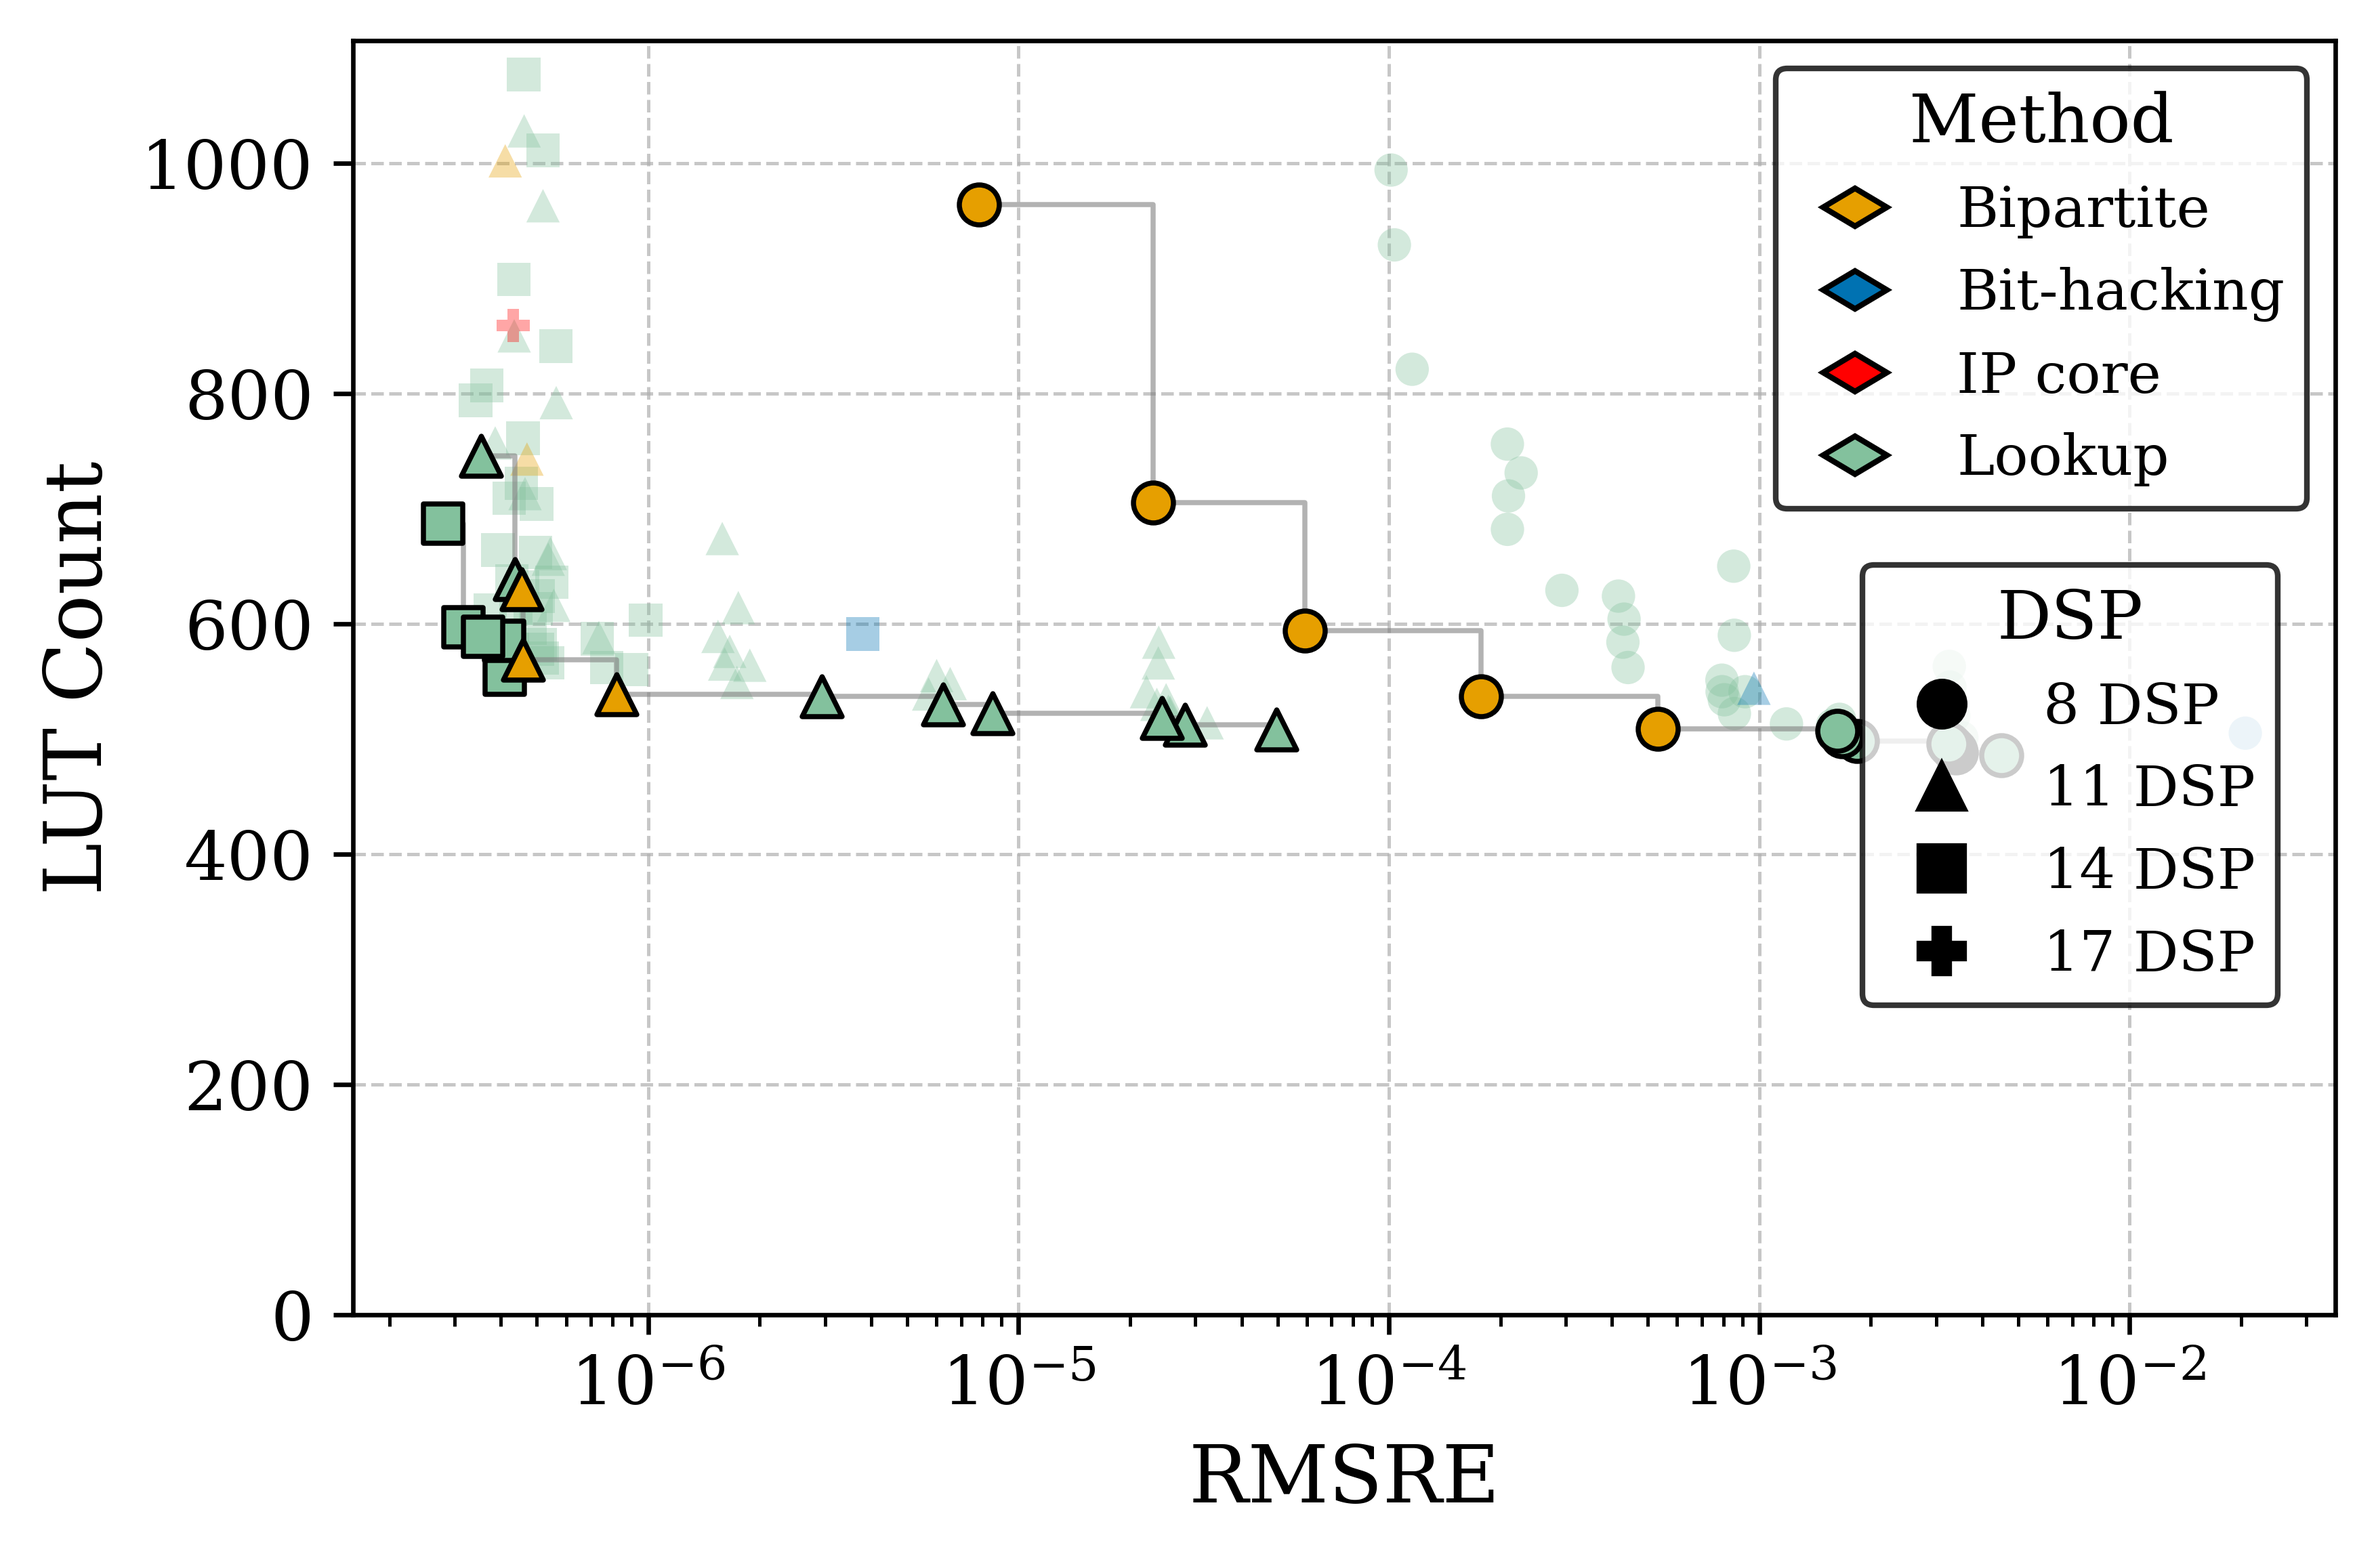
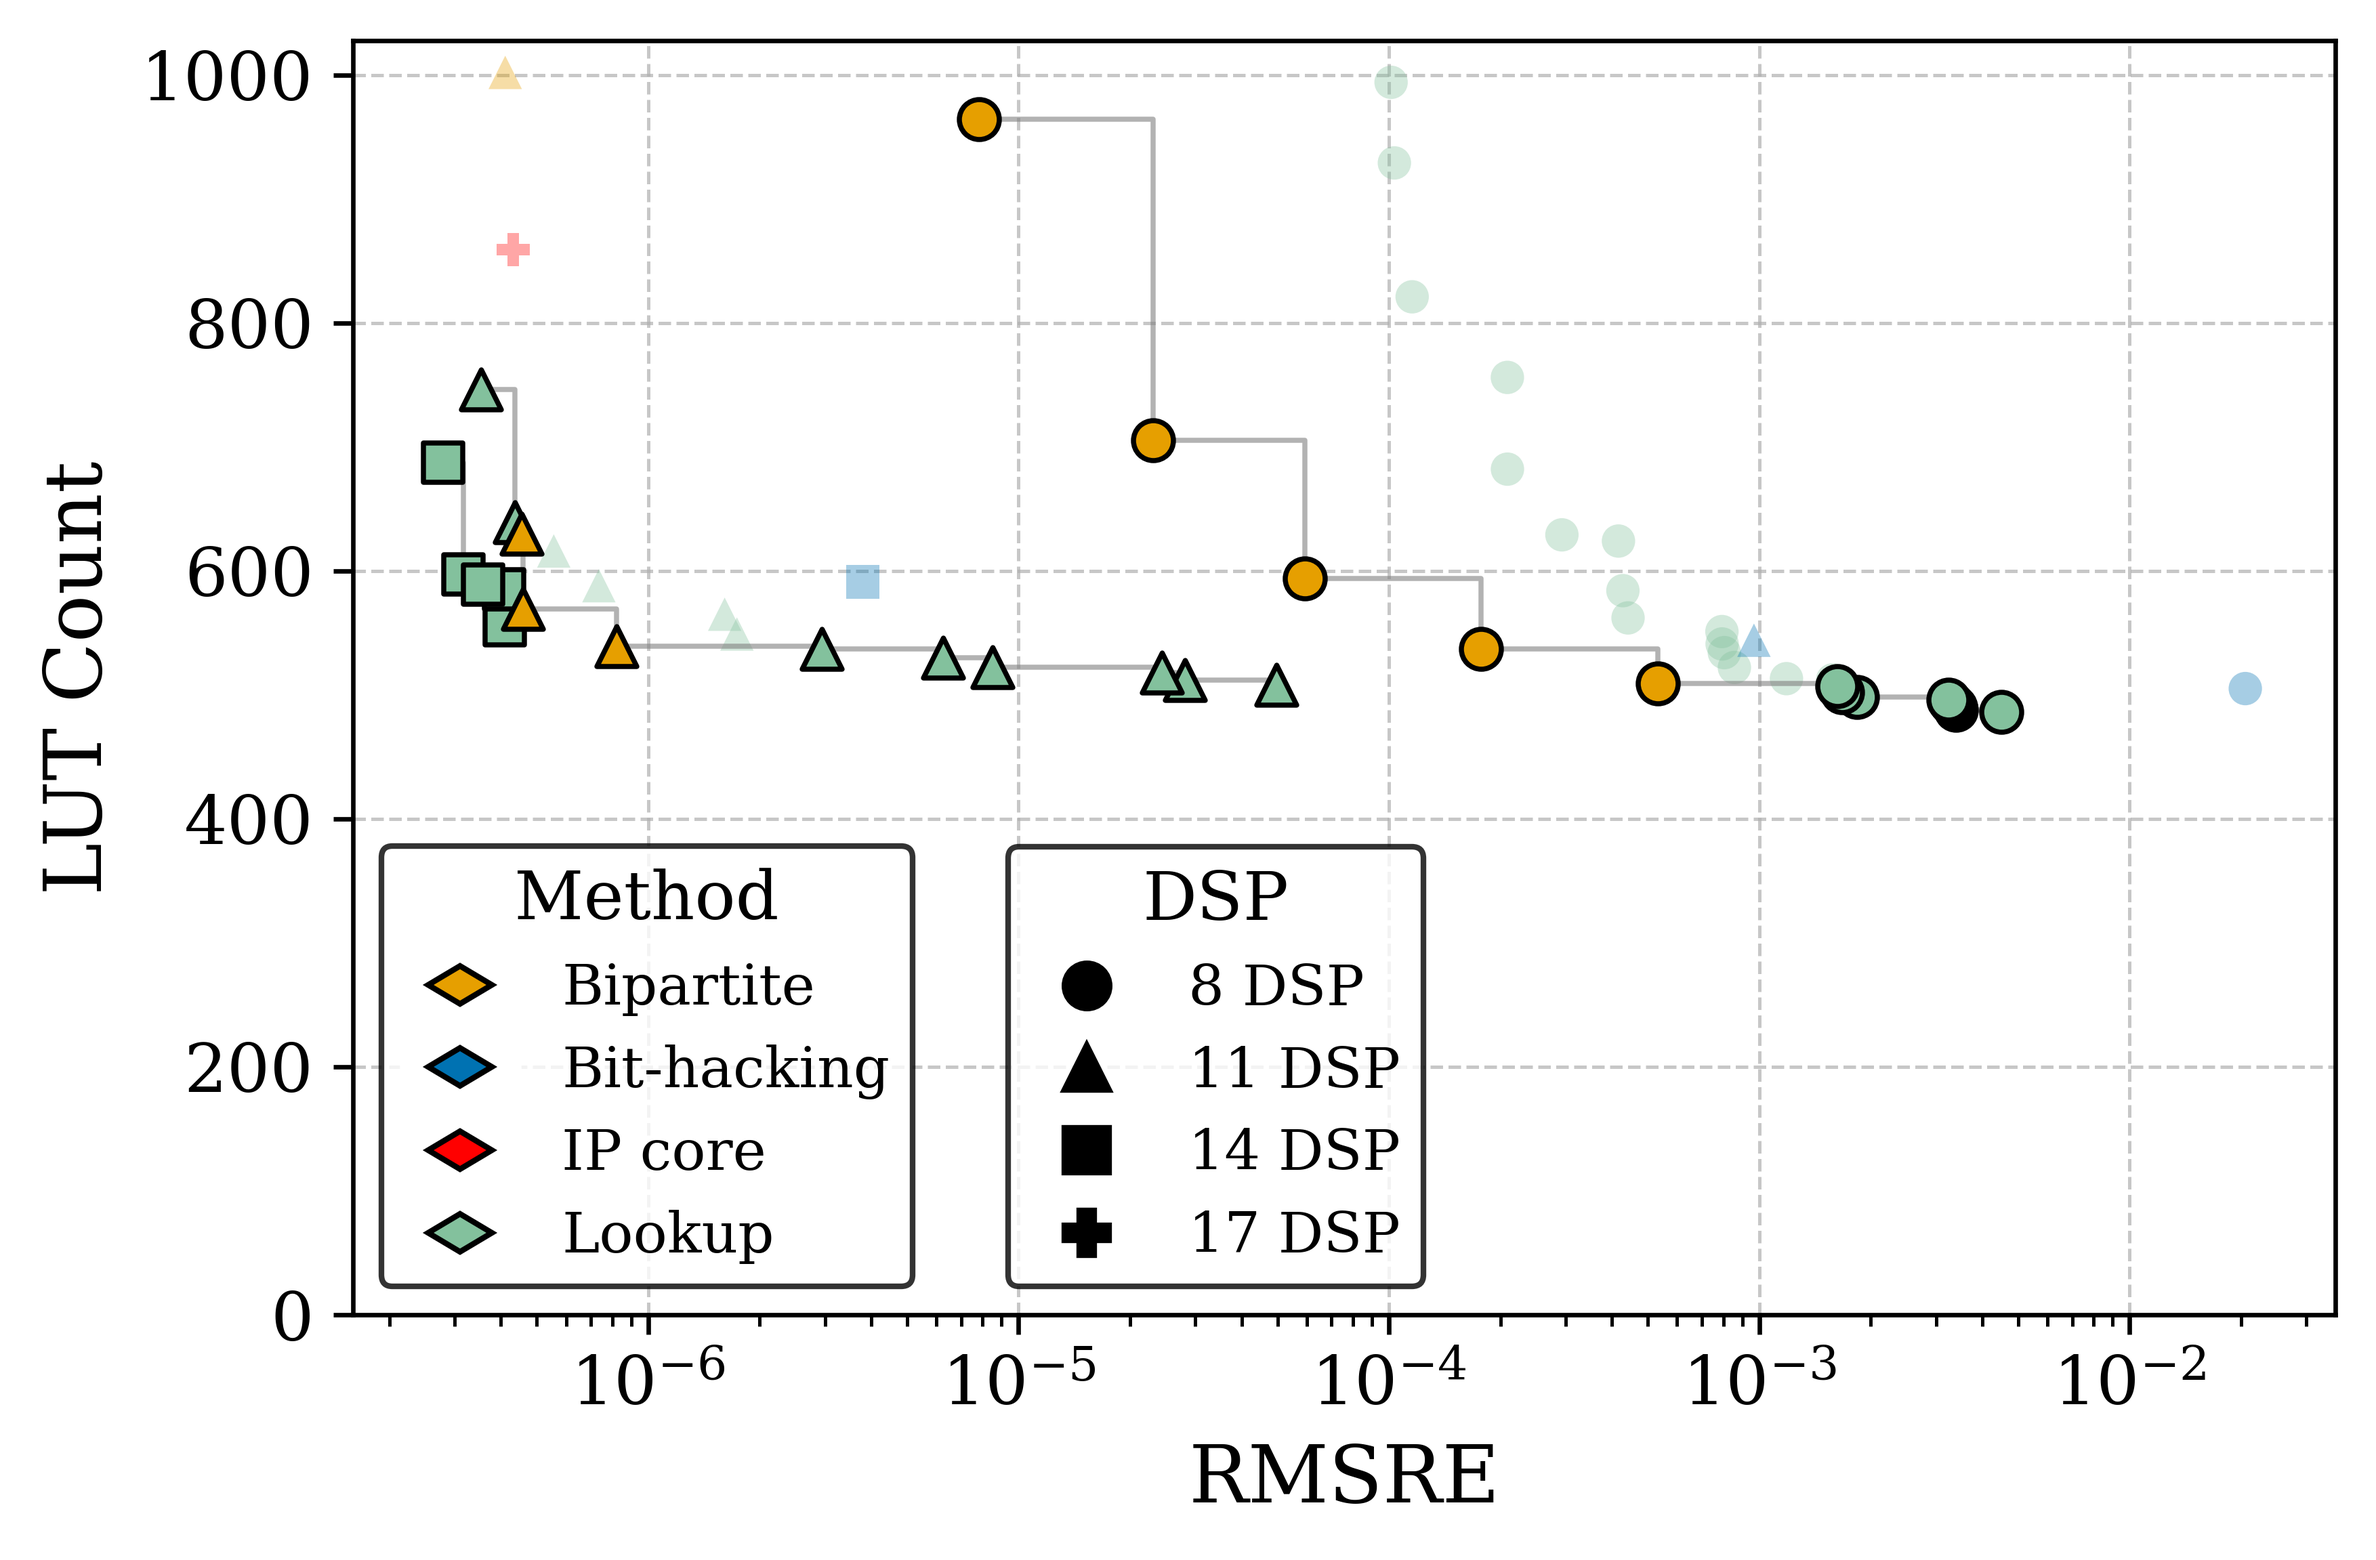
m

diff --git a/evaluation/layernorm/method_sweep/scripts/plots.py b/evaluation/layernorm/method_sweep/scripts/plots.py
@@ -318,20 +318,23 @@ def add_legends(fig, ax) -> None:
         for n, m in DSP_TO_MARKER.items()
     ]
 
+    # Draw the Method and DSP legends side by side in the bottom-left corner.
+    # The DSP legend is anchored immediately to the right of the Method legend
+    # using its actually-rendered width, so the two boxes sit flush regardless
+    # of label lengths or DPI.
+    pad = 0.02
     legend1 = ax.legend(
-        handles=method_handles, title="Method", loc="upper right",
-        bbox_to_anchor=(1.0, 1.0), frameon=True,
+        handles=method_handles, title="Method", loc="lower left",
+        bbox_to_anchor=(0.0, 0.0), frameon=True,
         edgecolor="black", facecolor="white",
     )
     ax.add_artist(legend1)
 
-    # Place the DSP legend directly below the Method legend, right edges aligned.
-    # Measure the Method legend after a draw pass so placement adapts to its size.
     fig.canvas.draw()
     method_bbox = legend1.get_window_extent().transformed(ax.transAxes.inverted())
     ax.legend(
-        handles=dsp_handles, title="DSP", loc="upper right",
-        bbox_to_anchor=(method_bbox.x1, method_bbox.y0 - 0.005),
+        handles=dsp_handles, title="DSP", loc="lower left",
+        bbox_to_anchor=(method_bbox.x1 + pad, 0.0),
         frameon=True, edgecolor="black", facecolor="white",
     )
 
